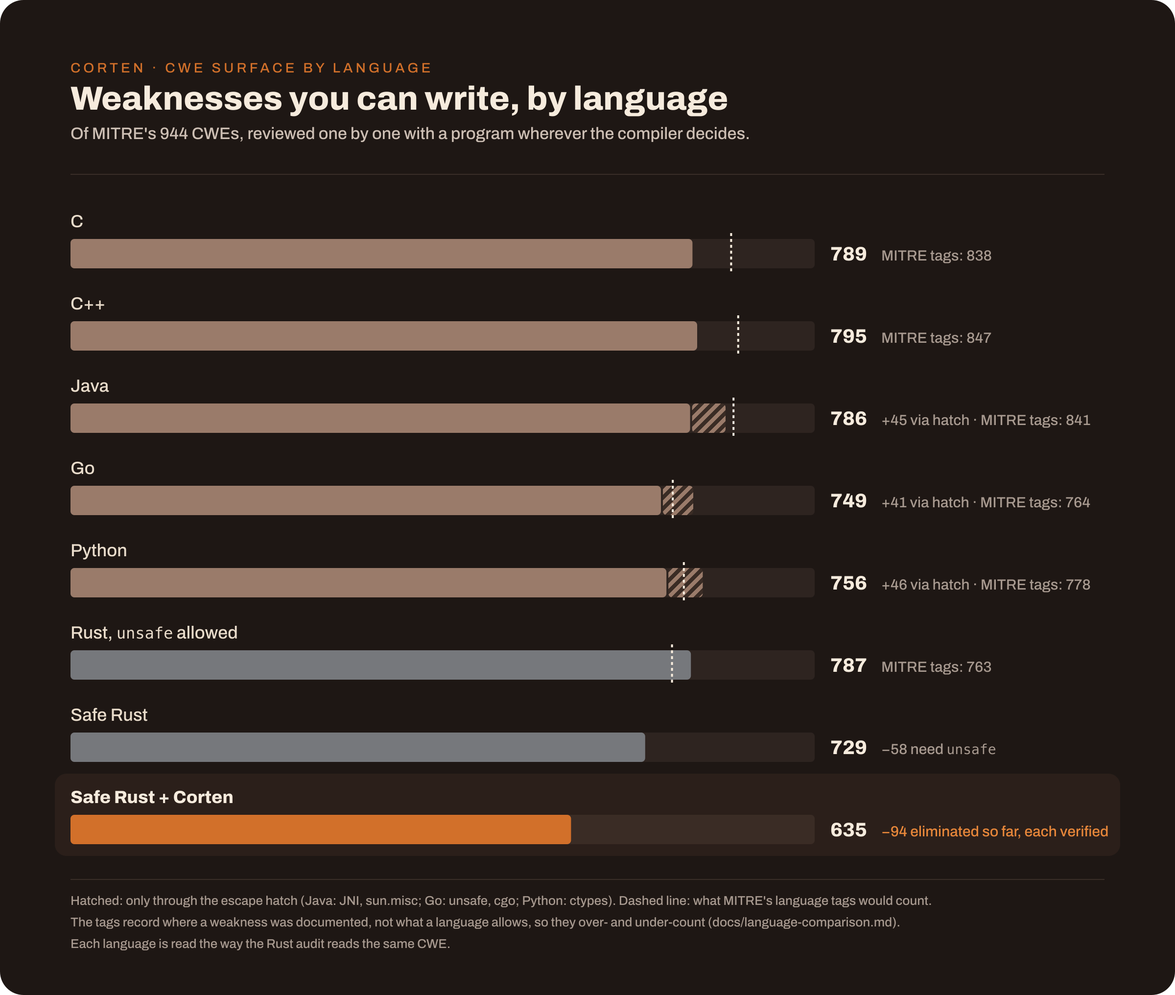
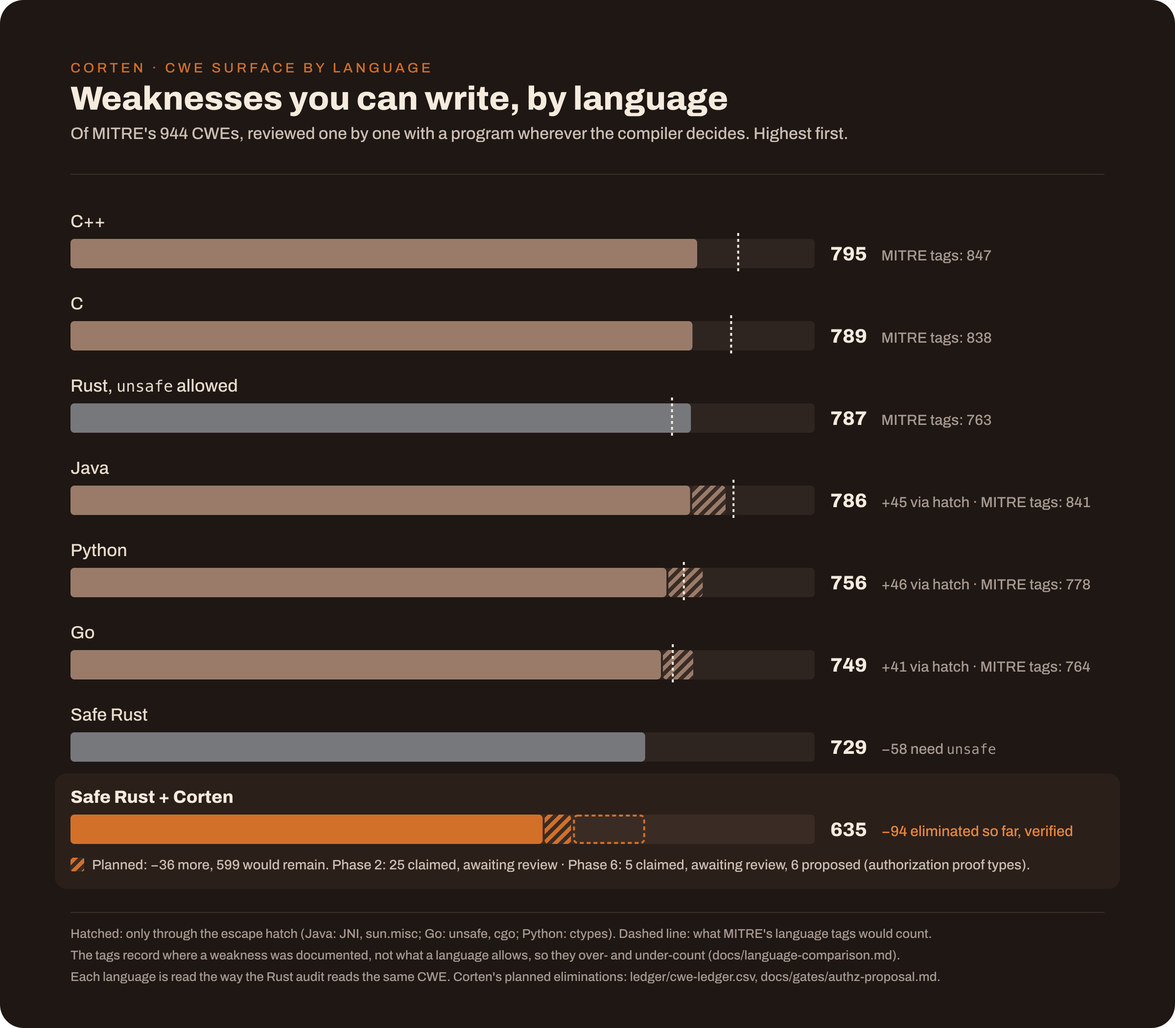
Chart: sorted by audited number; Corten shows planned eliminations by phase (#58)
* Language chart sorted by audited number; Corten row shows verified and planned eliminations by phase

* language-docs: render the README PNG whenever the SVG changes; CI checks its SVG hash

diff --git a/scripts/language-docs.py b/scripts/language-docs.py
@@ -14,12 +14,20 @@ number is counted here; nothing is typed by hand.
 
 Usage: scripts/language-docs.py [--check]   (run from the repository root)
   --check  exit 1 if any output on disk differs from what would be written.
-The README shows a PNG of the chart, rendered by hand because it needs the
-Archivo font installed (an <img> cannot load fonts, so the SVG falls back):
-  rsvg-convert -z 2 docs/assets/cwe-languages.svg -o docs/assets/cwe-languages.png
+Writing also renders docs/assets/cwe-languages.png, the image the README
+shows, whenever the SVG changes or the PNG is stale: rsvg-convert -z 2, with the
+Archivo font installed (an <img> cannot load fonts, so the SVG alone falls
+back). It refuses rather than render in a substitute font. The SHA-256 of the
+SVG a PNG was rendered from is kept beside it (cwe-languages.png.sha256), and
+--check fails when it does not match, so CI, which has no Archivo, still
+catches a stale PNG.
 """
 
+import collections
 import csv
+import hashlib
+import shutil
+import subprocess
 import sys
 from pathlib import Path
 
@@ -42,6 +50,16 @@ LANGS = [
 RUST_TAGS = {"Rust", "Not Language-Specific", "Compiled"}
 COMPARISON = Path("docs/language-comparison.md")
 SVG = Path("docs/assets/cwe-languages.svg")
+LEDGER = Path("ledger/cwe-ledger.csv")
+PNG = Path("docs/assets/cwe-languages.png")
+PNG_STAMP = Path("docs/assets/cwe-languages.png.sha256")
+# Proposed eliminations not yet in the ledger as E: the elimination candidates
+# of the Phase 6 authorization design note. The generator refuses to run once
+# any of them is no longer a C row, so the chart cannot go stale silently.
+PROPOSED_E_SOURCE = "docs/gates/authz-proposal.md"
+PROPOSED_E = ("CWE-862", "CWE-306", "CWE-288", "CWE-638", "CWE-639", "CWE-566")
+PROPOSED_E_PHASE = "6"
+PROPOSED_E_WHAT = "authorization proof types"
 README = Path("README.md")
 MARK_START = "<!-- language-table:start (generated by scripts/language-docs.py) -->"
 MARK_END = "<!-- language-table:end -->"
@@ -207,6 +225,19 @@ def comparison_doc(table, langs, ks, rk):
     return "\n".join(out)
 
 
+def planned(table):
+    """Eliminations not yet verified, by phase: claimed E rows in the ledger
+    (waiting for review) and the proposed candidates of a design note."""
+    ledger = {r["cwe_id"]: r for r in csv.DictReader(LEDGER.open(newline=""))}
+    claimed = collections.Counter(
+        r["phase"] for c, r in ledger.items()
+        if r["bucket"] == "E" and r["status"] != "verified" and table[c]["safe_rust"] == "yes")
+    for c in PROPOSED_E:
+        if ledger[c]["bucket"] != "C" or table[c]["safe_rust"] != "yes":
+            sys.exit(f"{c} is no longer a C row safe Rust can write: update PROPOSED_E ({PROPOSED_E_SOURCE})")
+    return claimed, len(PROPOSED_E)
+
+
 def chart(table, langs, ks, rk):
     total = len(table)
     X0, TRACK = 72, 760
@@ -215,86 +246,110 @@ def chart(table, langs, ks, rk):
         v = round(n * TRACK / total, 1)
         return int(v) if v == int(v) else v
 
-    def hatch_seg(L, k, y):
-        if k["hatch"] == k["plain"]:
-            return ""
-        x = round(X0 + w(k["plain"]) + 2, 1)
-        return (f'\n    <rect x="{x}" y="{y + 12}" width="{round(w(k["hatch"]) - w(k["plain"]) - 2, 1)}" height="30" rx="4" '
-                f'fill="url(#hatch)"><title>{k["hatch"] - k["plain"]} more through the escape hatch</title></rect>')
+    def x(n):
+        return round(X0 + w(n), 1)
 
-    def hatch_note(k):
-        return "" if k["hatch"] == k["plain"] else f"+{k['hatch'] - k['plain']} via hatch · "
+    def marker(n, who):
+        return (f'\n    <line x1="{x(n)}" y1="{{y6}}" x2="{x(n)}" y2="{{y48}}" stroke="#F6EBDD" stroke-width="2" '
+                f'stroke-dasharray="3 3"><title>MITRE\'s tags count {n} for {who}</title></line>')
+
+    # Each bar: (sort value, label markup, bar markup, number, note), drawn at y.
+    bars = []
+    for L, k in zip(langs, ks):
+        seg = ""
+        if k["hatch"] != k["plain"]:
+            seg = (f'\n    <rect x="{round(x(k["plain"]) + 2, 1)}" y="{{y12}}" width="{round(w(k["hatch"]) - w(k["plain"]) - 2, 1)}" '
+                   f'height="30" rx="4" fill="url(#hatch)"><title>{k["hatch"] - k["plain"]} more through the escape hatch</title></rect>')
+        note = ("" if k["hatch"] == k["plain"] else f"+{k['hatch'] - k['plain']} via hatch · ") + f"MITRE tags: {k['tagged']}"
+        bars.append((k["plain"], L["name"],
+                     f'<rect x="72" y="{{y12}}" width="{w(k["plain"])}" height="30" rx="4" fill="#9A7B6A"><title>{L["name"]}: '
+                     f'{k["plain"]} CWEs writable without the escape hatch (per-CWE audit)</title></rect>' + seg + marker(k["tagged"], L["name"]),
+                     k["plain"], note))
+    bars.append((rk["unsafe"], 'Rust, <tspan font-family="monospace" font-size="16">unsafe</tspan> allowed',
+                 f'<rect x="72" y="{{y12}}" width="{w(rk["unsafe"])}" height="30" rx="4" fill="#76787C"><title>Rust, unsafe allowed: '
+                 f'{rk["unsafe"]} CWEs</title></rect>' + marker(rk["tagged"], "Rust"),
+                 rk["unsafe"], f"MITRE tags: {rk['tagged']}"))
+    bars.append((rk["safe"], "Safe Rust",
+                 f'<rect x="72" y="{{y12}}" width="{w(rk["safe"])}" height="30" rx="4" fill="#76787C"><title>Safe Rust: {rk["safe"]} CWEs</title></rect>',
+                 rk["safe"], f'−{rk["unsafe"] - rk["safe"]} need <tspan font-family="monospace" font-size="14">unsafe</tspan>'))
+    bars.sort(key=lambda b: -b[0])
 
     rows_svg = []
     y = 232
-    for L, k in zip(langs, ks):
-        mx = round(X0 + w(k["tagged"]), 1)
-        rows_svg.append(f"""    <text x="72" y="{y}" font-size="18" font-weight="500" fill="#E9DCCB">{L['name']}</text>
+    for _, label, bar, number, note in bars:
+        bar = bar.replace("{y12}", str(y + 12)).replace("{y6}", str(y + 6)).replace("{y48}", str(y + 48))
+        rows_svg.append(f"""    <text x="72" y="{y}" font-size="18" font-weight="500" fill="#E9DCCB">{label}</text>
     <rect x="72" y="{y + 12}" width="{TRACK}" height="30" rx="4" fill="#2E2420"/>
-    <rect x="72" y="{y + 12}" width="{w(k['plain'])}" height="30" rx="4" fill="#9A7B6A"><title>{L['name']}: {k['plain']} CWEs writable without the escape hatch (per-CWE audit)</title></rect>{hatch_seg(L, k, y)}
-    <line x1="{mx}" y1="{y + 6}" x2="{mx}" y2="{y + 48}" stroke="#F6EBDD" stroke-width="2" stroke-dasharray="3 3"><title>MITRE's tags count {k['tagged']} for {L['name']}</title></line>
-    <text x="848" y="{y + 34}" font-size="20" font-weight="800" fill="#F6EBDD">{k['plain']}</text>
-    <text x="900" y="{y + 34}" font-size="15" font-weight="500" fill="#A89A90">{hatch_note(k)}MITRE tags: {k['tagged']}</text>""")
+    {bar}
+    <text x="848" y="{y + 34}" font-size="20" font-weight="800" fill="#F6EBDD">{number}</text>
+    <text x="900" y="{y + 34}" font-size="15" font-weight="500" fill="#A89A90">{note}</text>""")
         y += 84
-    rmx = round(X0 + w(rk["tagged"]), 1)
-    rows_svg.append(f"""    <text x="72" y="{y}" font-size="18" font-weight="500" fill="#E9DCCB">Rust, <tspan font-family="monospace" font-size="16">unsafe</tspan> allowed</text>
-    <rect x="72" y="{y + 12}" width="{TRACK}" height="30" rx="4" fill="#2E2420"/>
-    <rect x="72" y="{y + 12}" width="{w(rk['unsafe'])}" height="30" rx="4" fill="#76787C"><title>Rust, unsafe allowed: {rk['unsafe']} CWEs</title></rect>
-    <line x1="{rmx}" y1="{y + 6}" x2="{rmx}" y2="{y + 48}" stroke="#F6EBDD" stroke-width="2" stroke-dasharray="3 3"><title>MITRE's tags count {rk['tagged']} for Rust</title></line>
-    <text x="848" y="{y + 34}" font-size="20" font-weight="800" fill="#F6EBDD">{rk['unsafe']}</text>
-    <text x="900" y="{y + 34}" font-size="15" font-weight="500" fill="#A89A90">MITRE tags: {rk['tagged']}</text>""")
-    y += 84
-    rows_svg.append(f"""    <text x="72" y="{y}" font-size="18" font-weight="500" fill="#E9DCCB">Safe Rust</text>
-    <rect x="72" y="{y + 12}" width="{TRACK}" height="30" rx="4" fill="#2E2420"/>
-    <rect x="72" y="{y + 12}" width="{w(rk['safe'])}" height="30" rx="4" fill="#76787C"><title>Safe Rust: {rk['safe']} CWEs</title></rect>
-    <text x="848" y="{y + 34}" font-size="20" font-weight="800" fill="#F6EBDD">{rk['safe']}</text>
-    <text x="900" y="{y + 34}" font-size="15" font-weight="500" fill="#A89A90">−{rk['unsafe'] - rk['safe']} need <tspan font-family="monospace" font-size="14">unsafe</tspan></text>""")
-    y += 84
-    rows_svg.append(f"""    <rect x="56" y="{y - 30}" width="1088" height="84" rx="12" fill="#2B1F1A"/>
+
+    claimed, proposed = planned(table)
+    plan = sum(claimed.values()) + proposed
+    after = rk["corten"] - plan
+    parts = {ph: [f"{n} claimed, awaiting review"] for ph, n in claimed.items()}
+    parts.setdefault(PROPOSED_E_PHASE, []).append(f"{proposed} proposed ({PROPOSED_E_WHAT})")
+    phases = " · ".join(f"Phase {ph}: " + ", ".join(v) for ph, v in sorted(parts.items(), key=lambda i: int(i[0])))
+    rows_svg.append(f"""    <rect x="56" y="{y - 30}" width="1088" height="118" rx="12" fill="#2B1F1A"/>
     <text x="72" y="{y}" font-size="18" font-weight="800" fill="#F6EBDD">Safe Rust + Corten</text>
     <rect x="72" y="{y + 12}" width="{TRACK}" height="30" rx="4" fill="#3A2C25"/>
-    <rect x="72" y="{y + 12}" width="{w(rk['corten'])}" height="30" rx="4" fill="#D2702A"><title>Safe Rust under Corten: {rk['corten']} CWEs</title></rect>
+    <rect x="72" y="{y + 12}" width="{w(after)}" height="30" rx="4" fill="#D2702A"><title>Still writable if every planned elimination lands: {after} CWEs</title></rect>
+    <rect x="{round(x(after) + 2, 1)}" y="{y + 12}" width="{round(w(rk['corten']) - w(after) - 2, 1)}" height="30" rx="4" fill="url(#planned)"><title>{plan} more eliminations planned, not yet verified</title></rect>
+    <rect x="{round(x(rk['corten']) + 3, 1)}" y="{y + 13}" width="{round(w(rk['safe']) - w(rk['corten']) - 4, 1)}" height="28" rx="4" fill="none" stroke="#D2702A" stroke-width="2" stroke-dasharray="4 3"><title>{rk['verified']} eliminated so far, each verified by a compile-fail test</title></rect>
     <text x="848" y="{y + 34}" font-size="20" font-weight="800" fill="#F6EBDD">{rk['corten']}</text>
-    <text x="900" y="{y + 34}" font-size="15" font-weight="500" fill="#E8873A">−{rk['verified']} eliminated so far, each verified</text>""")
-    y += 84
+    <text x="900" y="{y + 34}" font-size="15" font-weight="500" fill="#E8873A">−{rk['verified']} eliminated so far, verified</text>
+    <rect x="72" y="{y + 56}" width="14" height="14" rx="2" fill="url(#planned)"/>
+    <text x="94" y="{y + 68}" font-size="14" font-weight="500" fill="#CDBFB4">Planned: −{plan} more, {after} would remain. {phases}.</text>""")
+    y += 118
     h = y + 112
     names = ", ".join(L["name"] for L in langs)
-    desc = "; ".join(f"{L['name']} {k['hatch']} (MITRE's tags say {k['tagged']})" for L, k in zip(langs, ks))
+    desc = "; ".join(f"{L['name']} {k['plain']} plain, {k['hatch']} with its escape hatch (MITRE's tags say {k['tagged']})" for L, k in zip(langs, ks))
     return f"""<svg xmlns="http://www.w3.org/2000/svg" viewBox="0 0 1200 {h}" width="1200" height="{h}" role="img" aria-labelledby="t d">
   <title id="t">CWE weaknesses that can be written: {names}, Rust, safe Rust, safe Rust + Corten</title>
-  <desc id="d">Of MITRE CWE 4.20's {total} weaknesses, writable per the per-CWE audit: {desc}; Rust with unsafe allowed {rk['unsafe']} (MITRE's tags say {rk['tagged']}); safe Rust {rk['safe']}; safe Rust under Corten {rk['corten']} ({rk['verified']} eliminations verified).</desc>
+  <desc id="d">Of MITRE CWE 4.20's {total} weaknesses, writable per the per-CWE audit, highest first: {desc}; Rust with unsafe allowed {rk['unsafe']} (MITRE's tags say {rk['tagged']}); safe Rust {rk['safe']}; safe Rust under Corten {rk['corten']} today, {rk['verified']} eliminations verified, {plan} more planned ({after} would remain).</desc>
   <!-- Generated by scripts/language-docs.py; do not edit by hand. Scale: {TRACK} px = {total} CWEs. -->
   <defs>
     <pattern id="hatch" patternUnits="userSpaceOnUse" width="8" height="8" patternTransform="rotate(45)">
       <rect width="8" height="8" fill="#3A2C25"/>
       <rect width="4" height="8" fill="#9A7B6A"/>
     </pattern>
+    <pattern id="planned" patternUnits="userSpaceOnUse" width="8" height="8" patternTransform="rotate(45)">
+      <rect width="8" height="8" fill="#3A2C25"/>
+      <rect width="4" height="8" fill="#D2702A"/>
+    </pattern>
   </defs>
   <rect width="1200" height="{h}" rx="24" fill="#1E1714"/>
   <g font-family="{FONT}">
     <text x="72" y="74" font-size="14" font-weight="500" letter-spacing="3" fill="#D2702A">CORTEN · CWE SURFACE BY LANGUAGE</text>
     <text x="72" y="112" font-size="34" font-weight="800" fill="#F6EBDD">Weaknesses you can write, by language</text>
-    <text x="72" y="142" font-size="17" font-weight="500" fill="#CDBFB4">Of MITRE's {total} CWEs, reviewed one by one with a program wherever the compiler decides.</text>
+    <text x="72" y="142" font-size="17" font-weight="500" fill="#CDBFB4">Of MITRE's {total} CWEs, reviewed one by one with a program wherever the compiler decides. Highest first.</text>
     <line x1="72" y1="178" x2="1128" y2="178" stroke="#3A2E28" stroke-width="1"/>
 {chr(10).join(rows_svg)}
     <line x1="72" y1="{y - 6}" x2="1128" y2="{y - 6}" stroke="#3A2E28" stroke-width="1"/>
     <g font-size="13" font-weight="500" fill="#A89A90">
       <text x="72" y="{y + 20}">Hatched: only through the escape hatch (Java: JNI, sun.misc; Go: unsafe, cgo; Python: ctypes). Dashed line: what MITRE's language tags would count.</text>
       <text x="72" y="{y + 42}">The tags record where a weakness was documented, not what a language allows, so they over- and under-count (docs/language-comparison.md).</text>
-      <text x="72" y="{y + 64}">Each language is read the way the Rust audit reads the same CWE.</text>
+      <text x="72" y="{y + 64}">Each language is read the way the Rust audit reads the same CWE. Corten's planned eliminations: ledger/cwe-ledger.csv, docs/gates/authz-proposal.md.</text>
     </g>
   </g>
 </svg>
 """
 
 
-def readme_table(langs, ks, rk):
+def readme_table(table, langs, ks, rk):
     out = ["| Language | Writable | With its escape hatch | MITRE's tags would say |", "| --- | ---: | ---: | ---: |"]
-    for L, k in zip(langs, ks):
+    for L, k in sorted(zip(langs, ks), key=lambda lk: -lk[1]["plain"]):
         hatch = "" if k["hatch"] == k["plain"] else str(k["hatch"])
         out.append(f"| [{L['name']}](docs/{L['dir']}-applicability.md) | {k['plain']} | {hatch} | {k['tagged']} |")
     out.append(f"| [Rust](docs/rust-applicability.md) | {rk['safe']} (safe Rust) | {rk['unsafe']} (`unsafe`) | {rk['tagged']} |")
     out.append(f"| **Safe Rust + Corten** | **{rk['corten']}** | | |")
+    claimed, proposed = planned(table)
+    plan = sum(claimed.values()) + proposed
+    by_phase = "; ".join(f"Phase {ph}: {n} claimed, awaiting independent review" for ph, n in sorted(claimed.items(), key=lambda i: int(i[0])))
+    out += ["", f"Under Corten, {rk['verified']} eliminations are verified so far, each by a compile-fail test. "
+            f"{plan} more are planned ({by_phase}; Phase {PROPOSED_E_PHASE}: {proposed} proposed, {PROPOSED_E_WHAT}, "
+            f"[`{PROPOSED_E_SOURCE}`]({PROPOSED_E_SOURCE})), which would leave {rk['corten'] - plan}."]
     return "\n".join(out)
 
 
@@ -305,6 +360,19 @@ def readme_with_table(text, table):
     return text[:a + len(MARK_START)] + "\n" + table + "\n" + text[b:]
 
 
+def render_png(svg_hash):
+    """Renders the README's PNG from the SVG, refusing a substitute font."""
+    for tool in ("rsvg-convert", "fc-match"):
+        if not shutil.which(tool):
+            sys.exit(f"{tool} is needed to render {PNG} (librsvg, fontconfig)")
+    family = subprocess.run(["fc-match", "-f", "%{family}", "Archivo"], capture_output=True, text=True, check=True).stdout
+    if not family.split(",")[0].strip() == "Archivo":
+        sys.exit(f"the Archivo font is not installed (fontconfig substitutes {family!r}); install it to render {PNG}")
+    subprocess.run(["rsvg-convert", "-z", "2", str(SVG), "-o", str(PNG)], check=True)
+    PNG_STAMP.write_text(svg_hash)
+    print(f"rendered {PNG}")
+
+
 def main():
     table, langs = load()
     ks = [lang_counts(table, L) for L in langs]
@@ -312,7 +380,7 @@ def main():
     outputs = {COMPARISON: comparison_doc(table, langs, ks, rk), SVG: chart(table, langs, ks, rk)}
     for L, k in zip(langs, ks):
         outputs[Path("docs") / f"{L['dir']}-applicability.md"] = lang_doc(table, L, k)
-    outputs[README] = readme_with_table(README.read_text(), readme_table(langs, ks, rk))
+    outputs[README] = readme_with_table(README.read_text(), readme_table(table, langs, ks, rk))
     stale = []
     for path, text in outputs.items():
         text = text if text.endswith("\n") else text + "\n"
@@ -321,6 +389,13 @@ def main():
                 stale.append(str(path))
         else:
             path.write_text(text)
+    svg_hash = hashlib.sha256(outputs[SVG].encode()).hexdigest() + "\n"
+    png_current = PNG.exists() and PNG_STAMP.exists() and PNG_STAMP.read_text() == svg_hash
+    if "--check" in sys.argv[1:]:
+        if not png_current:
+            stale.append(f"{PNG} (rendered from a different SVG)")
+    elif not png_current:
+        render_png(svg_hash)
     if stale:
         print("stale: " + ", ".join(stale) + ": run scripts/language-docs.py", file=sys.stderr)
         return 1

diff --git a/AGENTS.md b/AGENTS.md
@@ -50,7 +50,7 @@ Distilled from the owner's decisions (spec section 8). Apply them to every new i
 - **Validate before you assert.** Check claims about code, versions, tools and external facts against a primary source (read the file, run the command, fetch the official docs) before stating them, and label anything unverified.
 - **Keep docs current in the same change.** When behaviour, rules or the ledger change, update the spec, README and this file in the same commit.
 - **Prove a check can fail before trusting it passed.** A scan or test that reports "nothing found" counts only if the same instrument finds a planted positive (for example, gitleaks finding a planted token).
-- **Gates.** Pre-commit (`.pre-commit-config.yaml`, generated by the SOTA `init-gates.sh`) runs gitleaks and `cargo fmt --check` on commit, and clippy `-D warnings`, `cargo test` and `cargo audit` on push; install hooks with `pre-commit install --hook-type pre-commit --hook-type pre-push`. CI (`.github/workflows/ci.yml`) runs fmt, clippy, rustdoc, nextest, doctests, the ledger gate, the applicability evidence and the generated docs (`docs/rust-applicability.md`, `docs/rust-comparison.md`, `docs/residual-cwes.md` and the chart must be what their scripts generate), the C, C++, Java, Go and Python applicability evidence (programs re-checked in the pinned `gcc:15`, `eclipse-temurin:25-jdk`, `golang:1` and `python:3` images; `docs/<lang>-applicability.md` for each, `docs/language-comparison.md`, `docs/assets/cwe-languages.svg` and the README's language table must be current; the README's PNG of the chart is rendered by hand, `rsvg-convert -z 2`, with Archivo installed), the corpus, `scripts/hermetic-smoke.sh`, the Action self-test, the lint driver's fmt, Clippy and UI tests on its pinned nightly, `cargo deny` and gitleaks. Actions are pinned by commit SHA. **What a run skips, and when** (`scripts/ci-scope.sh`): a pull request whose every changed file is prose (top-level Markdown and licences, `docs/*.md`, `docs/gates/*.md`, `docs/assets/`) skips the heavy steps of `tests` (nextest, doctests, the corpus, the hermetic smoke test, the Action self-test) and prints why and the files it read. Any other path, an empty diff, or any event other than a pull request runs everything. Pushes to `main`, the weekly schedule, `v*` tags and manual runs are never scoped. Compiled dependencies, including the corpus's per-worker target directories (`corten-corpus --work-dir`), are cached by `Swatinem/rust-cache`, keyed also by a hash of `crates/corten-corpus/src` (which decides the work directory's layout; rust-cache never re-saves after an exact key match): only `main` writes the cache, pull requests restore it read-only, and tag (release) runs build clean without it. Cargo's fingerprints decide freshness, so no verdict is cached. A newer push cancels a pull request's older run; nothing else is cancelled. Every job has a `timeout-minutes`.
+- **Gates.** Pre-commit (`.pre-commit-config.yaml`, generated by the SOTA `init-gates.sh`) runs gitleaks and `cargo fmt --check` on commit, and clippy `-D warnings`, `cargo test` and `cargo audit` on push; install hooks with `pre-commit install --hook-type pre-commit --hook-type pre-push`. CI (`.github/workflows/ci.yml`) runs fmt, clippy, rustdoc, nextest, doctests, the ledger gate, the applicability evidence and the generated docs (`docs/rust-applicability.md`, `docs/rust-comparison.md`, `docs/residual-cwes.md` and the chart must be what their scripts generate), the C, C++, Java, Go and Python applicability evidence (programs re-checked in the pinned `gcc:15`, `eclipse-temurin:25-jdk`, `golang:1` and `python:3` images; `docs/<lang>-applicability.md` for each, `docs/language-comparison.md`, `docs/assets/cwe-languages.svg` and the README's language table must be current; the README's PNG of the chart is rendered by `scripts/language-docs.py` whenever the SVG changes, which needs `rsvg-convert` and the Archivo font locally, and CI checks the SVG hash recorded beside it, so a stale PNG fails), the corpus, `scripts/hermetic-smoke.sh`, the Action self-test, the lint driver's fmt, Clippy and UI tests on its pinned nightly, `cargo deny` and gitleaks. Actions are pinned by commit SHA. **What a run skips, and when** (`scripts/ci-scope.sh`): a pull request whose every changed file is prose (top-level Markdown and licences, `docs/*.md`, `docs/gates/*.md`, `docs/assets/`) skips the heavy steps of `tests` (nextest, doctests, the corpus, the hermetic smoke test, the Action self-test) and prints why and the files it read. Any other path, an empty diff, or any event other than a pull request runs everything. Pushes to `main`, the weekly schedule, `v*` tags and manual runs are never scoped. Compiled dependencies, including the corpus's per-worker target directories (`corten-corpus --work-dir`), are cached by `Swatinem/rust-cache`, keyed also by a hash of `crates/corten-corpus/src` (which decides the work directory's layout; rust-cache never re-saves after an exact key match): only `main` writes the cache, pull requests restore it read-only, and tag (release) runs build clean without it. Cargo's fingerprints decide freshness, so no verdict is cached. A newer push cancels a pull request's older run; nothing else is cancelled. Every job has a `timeout-minutes`.
 - **Run Linux checks in a container before pushing.** Much of the code is `cfg(target_os = "linux")` (`openat2`, Landlock, the broker tests), so macOS Clippy and tests do not see it. Run clippy, the tests and the smoke test in `podman run -v "$PWD":/src -w /src -e CARGO_TARGET_DIR=/tmp/target docker.io/library/rust:1.99.1-slim-bookworm` (add `clippy` with rustup and `python3` with apt). Build the whole workspace before running `cargo-corten`'s tests there: on Linux `cargo corten check` needs `corten-sandbox` beside it, and refuses without it. In a shell that leaks descriptors, run through `scripts/close-leaked-fds.sh`, or the sandbox refuses to start.
 - **The lint driver (`crates/corten-lints`) is outside the workspace** and builds on the nightly its own `rust-toolchain.toml` pins: run `cargo build`, `cargo test` and `cargo clippy` from that directory (in the container on Linux). The checker requires it, so run `scripts/build-driver.sh` before the workspace tests; they find it there or through `CORTEN_DRIVER`. In a container that shares the checkout, set `CORTEN_LINTS_TARGET_DIR` (for example `/tmp/lt`), or the Linux build overwrites the host's binary. The nightly's rustc API changes between releases; read its source under `$(rustc --print sysroot)/lib/rustlib/rustc-src` rather than guessing.
 - **`main` is protected** by a repository ruleset (`main`, no bypass, admins included): changes land only through a pull request with the five CI checks green on an up-to-date branch (`fmt, clippy, doc`, `tests`, `lint driver (nightly)`, `cargo deny`, `gitleaks`, each pinned to GitHub Actions; the lint driver required since 2026-11-01, owner decision, because the checker requires the driver); no force-push, no deletion, linear history, rebase or squash merges. No approval is required: the sole maintainer cannot approve their own pull requests. `.github/CODEOWNERS` requests the maintainer's review on every pull request. Signed commits are **not** required (owner decision, 2026-10-30): GitHub cannot sign a rebase merge, so the rule would allow squash merges only. **Releases are signed instead:** every release is a tag signed with the maintainer's OpenPGP key (`git tag -s`), held on a hardware key. No ruleset enforces that yet, and nothing is released yet.

diff --git a/CHANGELOG.md b/CHANGELOG.md
@@ -6,6 +6,8 @@ Newest first. Nothing is released yet.
 
 ### Changed
 
+- Language chart sorted by the audited number, highest first (C++ 795, C 789, Rust with `unsafe` 787, Java 786, Python 756, Go 749, safe Rust 729, then Corten), and the README table in the same order. The Corten row now separates today from the plan: 94 eliminations verified so far (dashed), 36 more planned (hatched), 599 left if they all land. The planned ones come from the ledger (Phase 2: 25 encoder rows and Phase 6: 5 cryptography rows, claimed and awaiting independent review) and from `docs/gates/authz-proposal.md` (Phase 6: 6 authorization rows proposed, still C in the ledger). The generator refuses to run once any of those 6 is no longer a C row, so the chart cannot go stale silently; shown to fire.
+- `scripts/language-docs.py` now renders the README's PNG itself whenever the chart SVG changes (`rsvg-convert -z 2`, refusing if Archivo is not installed), and records the SVG's SHA-256 beside it (`docs/assets/cwe-languages.png.sha256`). `--check`, which CI runs without the font, fails when the recorded hash does not match the current SVG; shown to fail with a tampered hash.
 - README: the language chart moved to the top, under the opening sentence. Its Corten label now reads "eliminated so far, each verified": 94 is today's verified count, and more eliminations are planned.
 - **README: weaknesses by language.** A section with a table of writable CWEs per language (plain and with the escape hatch, beside Rust, safe Rust, Corten and MITRE's tag counts) and the chart as a PNG rendered with Archivo (`docs/assets/cwe-languages.png`; an `<img>` cannot load the font, so the SVG falls back). `scripts/language-docs.py` writes the table between markers in the README, and CI fails when it is stale. `docs/language-comparison.md` now shows the evidence behind every disagreement with MITRE's tags (817 rows over five languages): MITRE's tags, our answer, the reasoning and the program where the compiler decides, with the not-code and untagged rows collapsed. The README's range of tagged-but-not-writable CWEs is 86 to 91 per language; an earlier draft said 81 to 90, mixing in C's not-code count.
 - **Python applicability audit** (`audit/languages/python/`), the last of the five comparison languages. All 944 CWEs reviewed for Python (3.15.2 `compile()`, `python:3` pinned by digest): **756** writable in plain Python and **802** with `ctypes`, the escape hatch; 52 not writable, 90 not code. Python writes several CWEs the other languages reject: `eval`/`exec` code injection, `importlib` of an input-chosen module (the analogue of PHP's dynamic include, CWE-98), `globals()` writes by name (621, 627), class-attribute pollution (1321), multiple inheritance (1055), `pickle` gadgets (502), `Thread.run()` for `start()` (572), and signal handlers that interrupt arbitrary code at bytecode boundaries (479, 828). Its arbitrary-precision `int` makes overflow, wraparound and truncation hatch-only, and CPython removes no dead stores (CWE-14 not writable), though `python -O` strips `assert` (733, 1038). Python's compiler checks syntax only, so its 41 rejected programs show that the C spelling does not parse; one C declaration turned out to be valid Python (`char *gets(char *s)` parses as a multiplication) and was replaced. 118 programs re-checked in CI. MITRE's tags would put Python at 778 (86 tagged but not writable, 110 writable but untagged).

diff --git a/README.md b/README.md
@@ -59,13 +59,15 @@ The same per-CWE review was done for C, C++, Java, Go and Python ([`audit/langua
 <!-- language-table:start (generated by scripts/language-docs.py) -->
 | Language | Writable | With its escape hatch | MITRE's tags would say |
 | --- | ---: | ---: | ---: |
-| [C](docs/c-applicability.md) | 789 |  | 838 |
 | [C++](docs/cpp-applicability.md) | 795 |  | 847 |
+| [C](docs/c-applicability.md) | 789 |  | 838 |
 | [Java](docs/java-applicability.md) | 786 | 831 | 841 |
-| [Go](docs/go-applicability.md) | 749 | 790 | 764 |
 | [Python](docs/python-applicability.md) | 756 | 802 | 778 |
+| [Go](docs/go-applicability.md) | 749 | 790 | 764 |
 | [Rust](docs/rust-applicability.md) | 729 (safe Rust) | 787 (`unsafe`) | 763 |
 | **Safe Rust + Corten** | **635** | | |
+
+Under Corten, 94 eliminations are verified so far, each by a compile-fail test. 36 more are planned (Phase 2: 25 claimed, awaiting independent review; Phase 6: 5 claimed, awaiting independent review; Phase 6: 6 proposed, authorization proof types, [`docs/gates/authz-proposal.md`](docs/gates/authz-proposal.md)), which would leave 599.
 <!-- language-table:end -->
 
 MITRE's own language tags are not a measure: they record where a weakness has been documented, not what a language allows, and they are wrong in both directions for every language (86 to 91 tagged CWEs cannot be written in it, most of them hardware and process weaknesses; 35 to 115 that can are not tagged). [`docs/language-comparison.md`](docs/language-comparison.md) lists every disagreement with the reasoning, and the program where the compiler decides, behind our answer.
